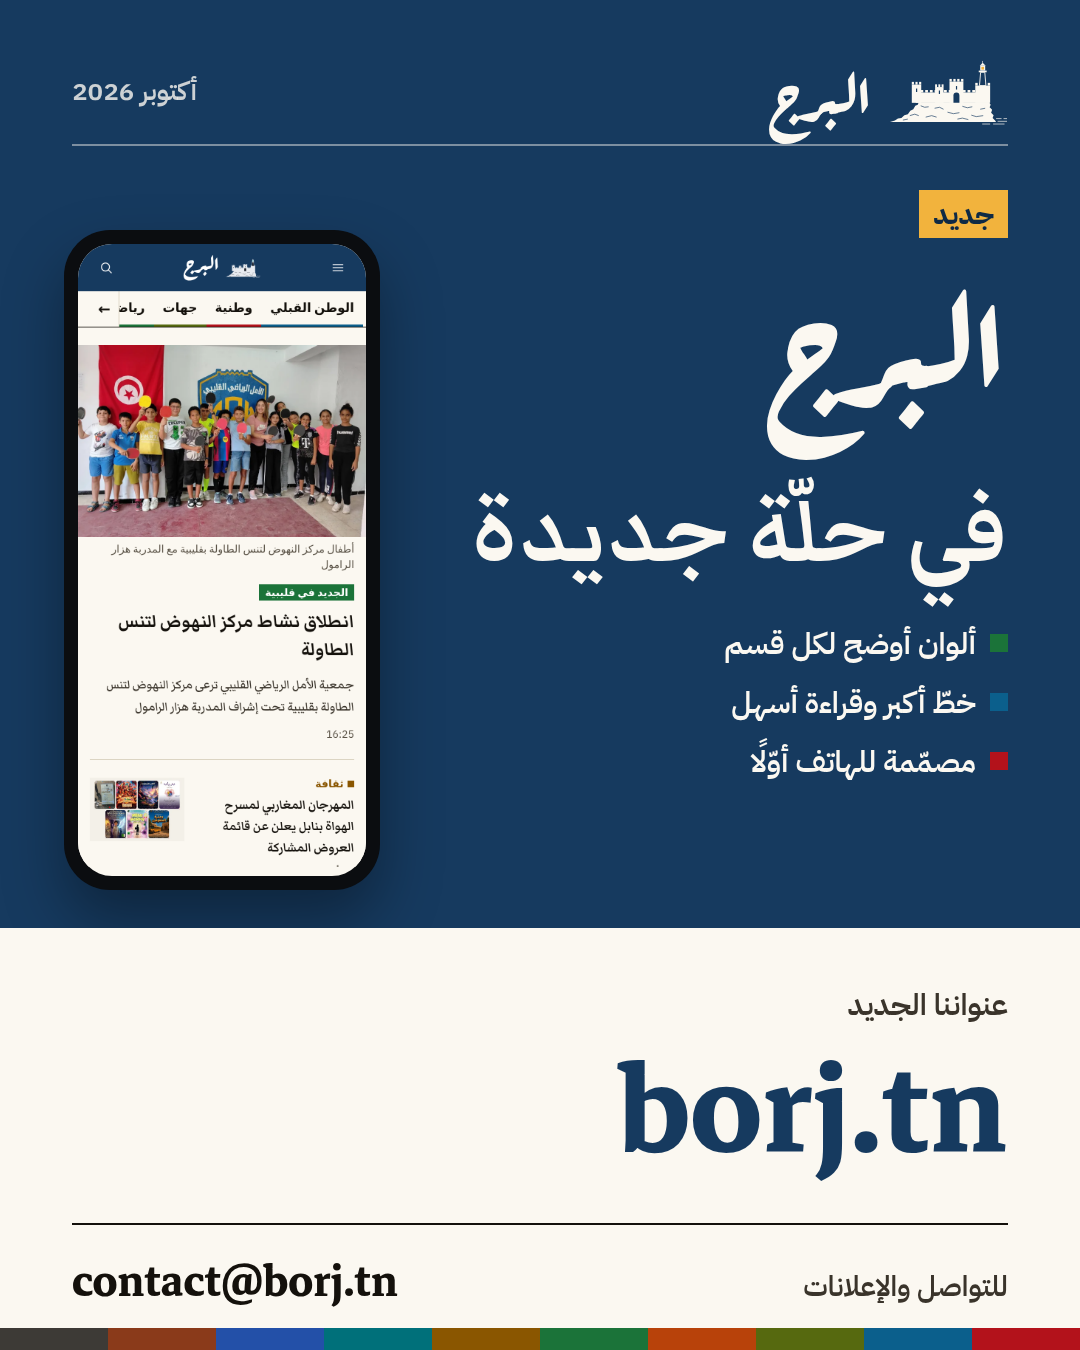
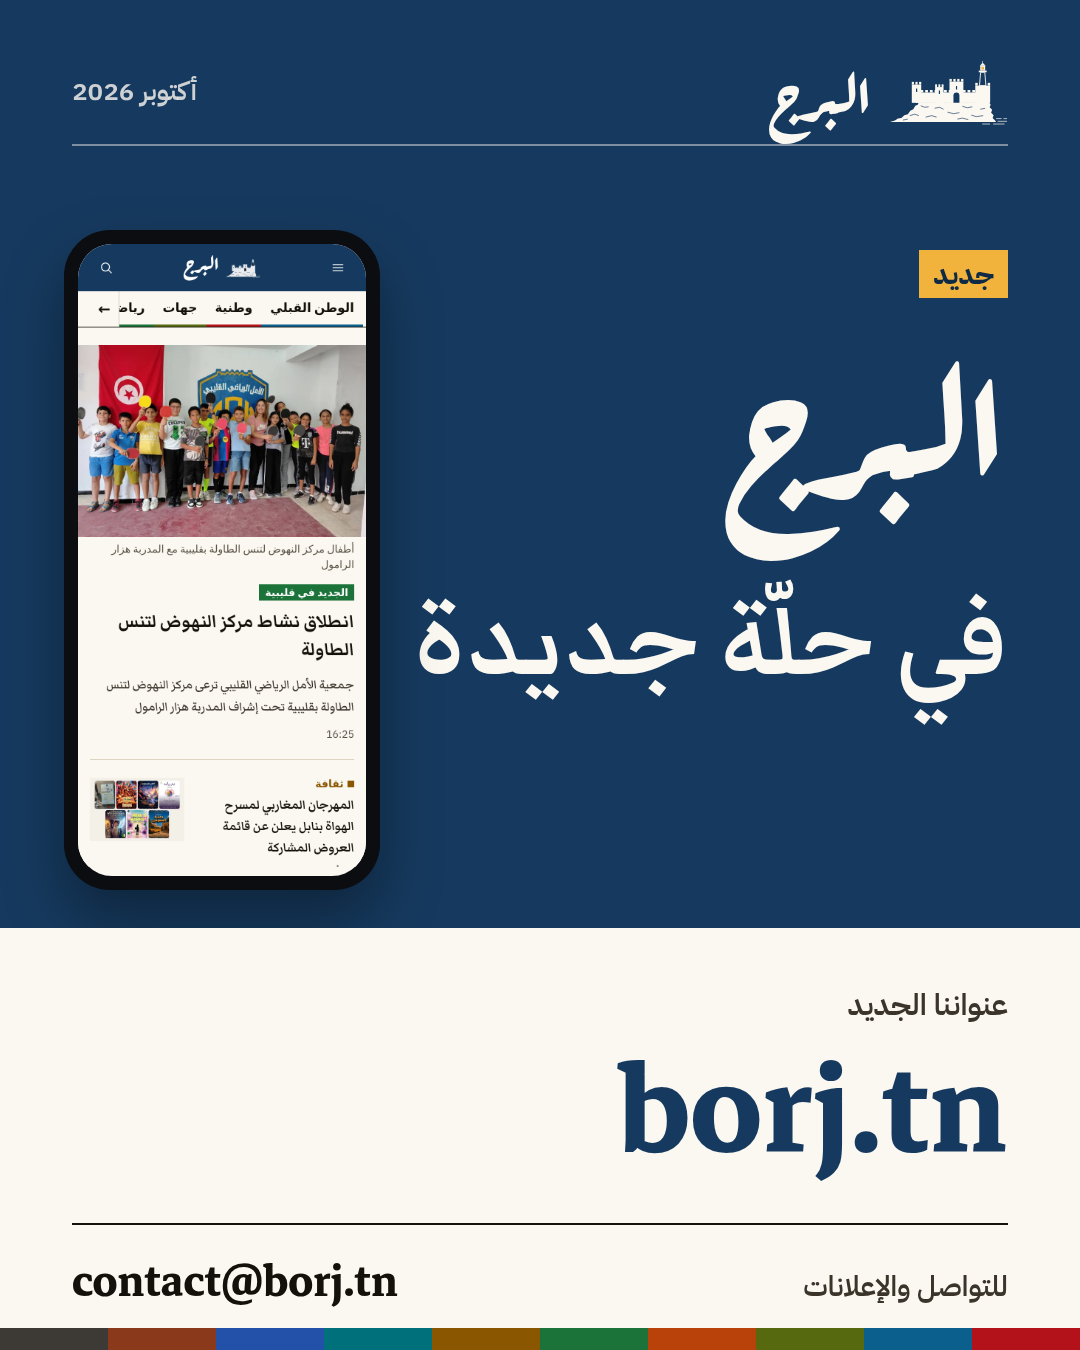
Phones: the menu sheet was white on paper inside the navy band (unreadable); now ink on paper with section colours, search, big rows and a labelled close button. Bigger tap targets (agenda months and towns, footer links); list pages get the coloured title block. Poster: only the new look, address an
Claude-Session: https://claude.ai/code/session_01H6vijaKjbs7CVtWMoX5VYi

Changed region(s): [[0.4278, 0.1244, 0.9472, 0.5911], [0.3667, 0.4356, 0.6417, 0.5289]]

diff --git a/src/components/public/MobileMenu.tsx b/src/components/public/MobileMenu.tsx
@@ -1,19 +1,25 @@
 'use client';
-import { useEffect, useRef, useState } from 'react';
+import { useEffect, useRef, useState, type CSSProperties } from 'react';
 import Link from 'next/link';
 import { CloseIcon, MenuIcon } from '@/components/shared/icons';
 
 export interface MenuSection {
   href: string;
   label: string;
+  color?: string;
   children: { href: string; label: string }[];
 }
 
-/** Full-height sheet with sections, sub-sections, pages and the language switch (mobile). */
-export function MobileMenu({ sections, pages, labels }: {
+/**
+ * Full-height sheet (phones): search, the sections with their colour (as in the nav strip) and
+ * sub-sections, then the pages. Big rows for older readers. It is rendered inside the navy
+ * masthead band, so `.mobile-sheet` resets the band's white text (globals.css).
+ */
+export function MobileMenu({ sections, pages, labels, searchAction }: {
   sections: MenuSection[];
   pages: { href: string; label: string }[];
-  labels: { menu: string; close: string; sections: string; pages: string };
+  labels: { menu: string; close: string; sections: string; pages: string; search: string; searchPlaceholder: string };
+  searchAction: string;
 }) {
   const [open, setOpen] = useState(false);
   const closeRef = useRef<HTMLButtonElement>(null);
@@ -36,26 +42,38 @@ export function MobileMenu({ sections, pages, labels }: {
   return (
     <>
       <button ref={openerRef} type="button" onClick={() => setOpen(true)} aria-expanded={open} aria-controls="mobile-menu"
-        className="inline-flex h-11 w-11 items-center justify-center" aria-label={labels.menu}>
+        className="inline-flex h-12 w-12 items-center justify-center" aria-label={labels.menu}>
         <MenuIcon />
       </button>
       {open && (
-        <div id="mobile-menu" role="dialog" aria-modal="true" aria-label={labels.menu} className="fixed inset-0 z-50 overflow-y-auto bg-paper">
-          <div className="flex items-center justify-between border-b border-rule px-4 py-2">
-            <span />
-            <button ref={closeRef} type="button" onClick={() => setOpen(false)} className="inline-flex h-11 w-11 items-center justify-center" aria-label={labels.close}>
-              <CloseIcon />
+        <div id="mobile-menu" role="dialog" aria-modal="true" aria-label={labels.menu} className="mobile-sheet fixed inset-0 z-50 overflow-y-auto overscroll-contain bg-paper text-ink">
+          <div className="sticky top-0 z-10 flex h-16 items-center justify-between bg-brand px-4 text-white">
+            <p className="font-ui text-[19px] font-bold">{labels.sections}</p>
+            <button ref={closeRef} type="button" onClick={() => setOpen(false)}
+              className="mobile-sheet-close inline-flex min-h-12 items-center gap-2 border border-white/60 px-3 font-ui text-[17px] font-bold">
+              <CloseIcon /> {labels.close}
             </button>
           </div>
-          <nav className="px-4 pb-10" aria-label={labels.sections} onClick={(e) => (e.target as HTMLElement).closest('a') && setOpen(false)}>
+          <form action={searchAction} method="get" role="search" className="flex gap-2 border-b border-rule px-4 py-4" onSubmit={() => setOpen(false)}>
+            <label htmlFor="menu-q" className="sr-only">{labels.search}</label>
+            <input id="menu-q" name="q" type="search" className="input text-[17px]" placeholder={labels.searchPlaceholder} required />
+            <button type="submit" className="btn btn-primary shrink-0">{labels.search}</button>
+          </form>
+          <nav className="px-4 pb-[calc(40px+env(safe-area-inset-bottom))]" aria-label={labels.sections} onClick={(e) => (e.target as HTMLElement).closest('a') && setOpen(false)}>
             <ul className="hairline-list">
               {sections.map((s) => (
-                <li key={s.href} className="py-3">
-                  <Link prefetch={false} href={s.href} className="font-headline text-[22px] font-bold">{s.label}</Link>
+                <li key={s.href} style={{ '--sec': s.color } as CSSProperties}>
+                  <Link prefetch={false} href={s.href} className="mobile-sheet-section flex min-h-14 items-center gap-3 py-2 font-headline text-[24px] font-bold">
+                    <span aria-hidden="true" className="h-3.5 w-3.5 shrink-0 bg-[var(--sec,var(--ink))]" />
+                    {s.label}
+                    <span aria-hidden="true" className="ms-auto font-ui text-[20px] text-ink-3">←</span>
+                  </Link>
                   {s.children.length > 0 && (
-                    <ul className="mt-1 flex flex-wrap gap-x-4 gap-y-1">
+                    <ul className="-mt-1 mb-3 flex flex-wrap gap-2 ps-[26px]">
                       {s.children.map((c) => (
-                        <li key={c.href}><Link prefetch={false} href={c.href} className="font-ui text-[15px] text-ink-2">{c.label}</Link></li>
+                        <li key={c.href}>
+                          <Link prefetch={false} href={c.href} className="inline-flex min-h-11 items-center border border-rule px-3 font-ui text-[17px] font-semibold text-ink-2">{c.label}</Link>
+                        </li>
                       ))}
                     </ul>
                   )}
@@ -64,10 +82,10 @@ export function MobileMenu({ sections, pages, labels }: {
             </ul>
             {pages.length > 0 && (
               <>
-                <p className="meta mt-8 mb-2">{labels.pages}</p>
-                <ul className="flex flex-wrap gap-x-4 gap-y-2">
+                <p className="mt-8 mb-1 font-ui text-[15px] font-bold text-ink-3">{labels.pages}</p>
+                <ul className="hairline-list">
                   {pages.map((p) => (
-                    <li key={p.href}><Link prefetch={false} href={p.href} className="font-ui text-[15px]">{p.label}</Link></li>
+                    <li key={p.href}><Link prefetch={false} href={p.href} className="flex min-h-12 items-center font-ui text-[18px] font-semibold">{p.label}</Link></li>
                   ))}
                 </ul>
               </>

diff --git a/design/facebook/announce-2026.html b/design/facebook/announce-2026.html
@@ -29,14 +29,11 @@ body { background: var(--navy); color: var(--paper); position: relative; font-fa
 .mast .date { font-weight: 600; font-size: 26px; color: rgb(251 248 241 / 0.8); }
 
 /* Headline */
-.head { position: absolute; top: 190px; right: 72px; width: 600px; }
+.head { position: absolute; top: 250px; right: 72px; width: 600px; }
 .head .kicker { display: inline-block; background: var(--lamp); color: var(--navy-deep); font-weight: 700; font-size: 28px; padding: 4px 14px 2px; }
-.head h1 { margin: 22px 0 0; font-family: 'Markazi Text'; font-weight: 700; font-size: 112px; line-height: 1.08; }
-.head h1 .word { font-family: 'Aref Ruqaa'; font-size: 150px; line-height: 1; display: block; margin-bottom: 64px; }
+.head h1 { margin: 28px 0 0; font-family: 'Markazi Text'; font-weight: 700; font-size: 124px; line-height: 1.08; }
+.head h1 .word { font-family: 'Aref Ruqaa'; font-size: 176px; line-height: 1; display: block; margin-bottom: 76px; }
 .head p { margin: 28px 0 0; font-size: 32px; line-height: 1.6; color: rgb(251 248 241 / 0.92); }
-.head ul { list-style: none; margin: 26px 0 0; padding: 0; display: grid; gap: 14px; }
-.head li { display: flex; align-items: center; gap: 14px; font-weight: 600; font-size: 30px; }
-.head li i { width: 18px; height: 18px; flex: none; }
 
 /* Phone showing the real homepage */
 .phone { position: absolute; top: 230px; left: 64px; width: 316px; height: 660px; background: #0b0d10; border-radius: 46px; padding: 14px;
@@ -73,11 +70,6 @@ body { background: var(--navy); color: var(--paper); position: relative; font-fa
   <section class="head">
     <span class="kicker">جديد</span>
     <h1><span class="word">البرج</span>في حلّة جديدة</h1>
-    <ul>
-      <li><i style="background:#1b7339"></i>ألوان أوضح لكل قسم</li>
-      <li><i style="background:#0b5f8c"></i>خطّ أكبر وقراءة أسهل</li>
-      <li><i style="background:#b3121b"></i>مصمّمة للهاتف أوّلًا</li>
-    </ul>
   </section>
 
   <div class="phone"><div class="screen"><img src="site-phone.png" alt=""></div></div>

diff --git a/src/components/public/Masthead.tsx b/src/components/public/Masthead.tsx
@@ -73,14 +73,16 @@ export async function Masthead({ locale, settings, categories, pages, latest, br
       <div className="container-page">
         <div className="flex h-16 items-center justify-between lg:hidden">
           <MobileMenu
-            labels={{ menu: t('menu'), close: t('close'), sections: t('sections'), pages: t('pages') }}
+            labels={{ menu: t('menu'), close: t('close'), sections: t('sections'), pages: t('pages'), search: t('search'), searchPlaceholder: t('searchPlaceholder') }}
+            searchAction={`/${locale}/search`}
             sections={top.map((c) => ({
               href: sectionHref(locale, c.slug),
+              color: c.color,
               label: categoryName(c, locale),
               children: childrenOf(c.id).map((s) => ({ href: sectionHref(locale, s.slug), label: categoryName(s, locale) })),
             })).concat([
-              { href: `/${locale}/agenda`, label: tg('title'), children: [] },
-              { href: `/${locale}/towns`, label: tg('towns'), children: [] },
+              { href: `/${locale}/agenda`, label: tg('title'), color: 'var(--brand)', children: [] },
+              { href: `/${locale}/towns`, label: tg('towns'), color: 'var(--brand)', children: [] },
             ])}
             pages={[
               ...pages.filter((p) => p.show_in_footer).map((p) => ({ href: pageHref(locale, p.slug, p.page_kind), label: p.title })),

diff --git a/src/styles/globals.css b/src/styles/globals.css
@@ -126,6 +126,10 @@
     color: #fff;
     padding: 6px 14px 4px;
   }
+  .section-head .page-title {
+    font-size: clamp(26px, 1vw + 22px, 34px);
+    padding: 8px 16px 6px;
+  }
   .section-head .section-title a,
   .section-head .section-title a:hover {
     color: #fff;
@@ -598,6 +602,22 @@
   }
   .masthead-band :focus-visible {
     outline-color: var(--bar-ink);
+  }
+  /* The phone menu sheet lives inside the band: back to ink on paper. */
+  .masthead-band .mobile-sheet a,
+  .masthead-band .mobile-sheet a:hover {
+    color: var(--ink);
+    text-decoration: none;
+  }
+  .masthead-band .mobile-sheet .mobile-sheet-section:hover {
+    color: var(--sec, var(--ink));
+  }
+  .masthead-band .mobile-sheet :focus-visible {
+    outline-color: var(--focus);
+  }
+  .masthead-band .mobile-sheet .mobile-sheet-close :focus-visible,
+  .masthead-band .mobile-sheet .mobile-sheet-close:focus-visible {
+    outline-color: #fff;
   }
   .masthead-utility {
     background: var(--brand-dark);

diff --git a/src/components/public/Agenda.tsx b/src/components/public/Agenda.tsx
@@ -64,7 +64,7 @@ export function EventLine({ e, locale, labels, showDate = false, calendar }: {
         {range && <span>{range}</span>}
         {time && <span dir="ltr" className="tabular-nums">{time}</span>}
         {e.place && <bdi>{e.place}</bdi>}
-        {e.town && <Link prefetch={false} href={topicHref(locale, e.town.slug)} className="hover:text-accent">{townName(e, locale)}</Link>}
+        {e.town && <Link prefetch={false} href={topicHref(locale, e.town.slug)} className="-my-3 inline-flex min-h-11 items-center underline decoration-rule underline-offset-4 hover:text-accent">{townName(e, locale)}</Link>}
         {cal === 'link' && (
           <a href={`/api/events/${e.id}`} rel="nofollow" className="-my-3 inline-flex min-h-11 items-center underline decoration-rule underline-offset-4 hover:text-accent">{labels.addToCalendar}</a>
         )}

diff --git a/src/app/[locale]/(public)/section/[slug]/[[...rest]]/page.tsx b/src/app/[locale]/(public)/section/[slug]/[[...rest]]/page.tsx
@@ -77,8 +77,9 @@ export default async function SectionPage({ params }: Params) {
     <div className="container-page mt-8">
       <header className="mb-8">
         {parent && <p className="kicker mb-1"><Link prefetch={false} href={sectionHref(locale, parent.slug)}>{categoryName(parent, locale)}</Link></p>}
-        <h1 className="headline-1 pb-2">{categoryName(cat, locale)}</h1>
-        <div className="section-rule" style={{ '--notch': cat.color } as CSSProperties} />
+        <div className="section-head" style={{ '--sec': cat.color } as CSSProperties}>
+          <h1 className="section-title page-title">{categoryName(cat, locale)}</h1>
+        </div>
         {description && <p className="dek mt-3 max-w-[var(--measure)]">{description}</p>}
         {children.length > 0 && (
           <p className="meta mt-3" aria-label={t('subsections')}>

diff --git a/src/app/[locale]/(public)/agenda/[[...month]]/page.tsx b/src/app/[locale]/(public)/agenda/[[...month]]/page.tsx
@@ -56,10 +56,10 @@ export default async function AgendaPage({ params }: Params) {
   const next = shiftMonth(month, 1);
   const nav = (
     <p className="meta flex justify-between gap-4">
-      <Link prefetch={false} href={`/${locale}/agenda/${prev}`} className="hover:text-accent">
+      <Link prefetch={false} href={`/${locale}/agenda/${prev}`} className="btn">
         <span aria-hidden="true" className="inline-block ltr:-scale-x-100">→</span> {formatMonth(prev, locale)}
       </Link>
-      <Link prefetch={false} href={`/${locale}/agenda/${next}`} className="hover:text-accent">
+      <Link prefetch={false} href={`/${locale}/agenda/${next}`} className="btn">
         {formatMonth(next, locale)} <span aria-hidden="true" className="inline-block ltr:-scale-x-100">←</span>
       </Link>
     </p>

diff --git a/src/app/[locale]/(public)/topic/[slug]/[[...rest]]/page.tsx b/src/app/[locale]/(public)/topic/[slug]/[[...rest]]/page.tsx
@@ -59,8 +59,9 @@ export default async function TopicPage({ params }: Params) {
         {image && page === 1 && <div className="w-40 shrink-0"><Img media={image} lang={locale} ratio="1/1" sizes="160px" /></div>}
         <div className="flex-1">
           <p className="kicker mb-1">{t(`kind_${tag.kind}`)}</p>
-          <h1 className="headline-1 pb-2">{tagName(tag, locale)}</h1>
-          <div className="section-rule" />
+          <div className="section-head">
+            <h1 className="section-title page-title">{tagName(tag, locale)}</h1>
+          </div>
           {description && page === 1 && <p className="dek mt-3 max-w-[var(--measure)]">{description}</p>}
           {tag.kind === 'club' && page === 1 && <p className="meta mt-2">{t('resultsSoon')}</p>}
         </div>

diff --git a/src/components/public/Footer.tsx b/src/components/public/Footer.tsx
@@ -97,8 +97,8 @@ export async function Footer({ locale, settings, categories, menu, pages }: {
               </dl>
             )}
             <p className="meta mt-4 flex flex-wrap gap-x-4 gap-y-1 text-footer-ink">
-              {socials.map(([k, url]) => <a key={k} href={url} target="_blank" rel="noopener">{SOCIAL_LABELS[k]?.[locale] ?? k}</a>)}
-              <a href={`/${locale}/rss.xml`}>{t('rss')}</a>
+              {socials.map(([k, url]) => <a key={k} href={url} target="_blank" rel="noopener" className="inline-flex min-h-11 items-center">{SOCIAL_LABELS[k]?.[locale] ?? k}</a>)}
+              <a href={`/${locale}/rss.xml`} className="inline-flex min-h-11 items-center">{t('rss')}</a>
             </p>
           </div>
         </div>

diff --git a/src/app/[locale]/(public)/format/[slug]/[[...rest]]/page.tsx b/src/app/[locale]/(public)/format/[slug]/[[...rest]]/page.tsx
@@ -48,8 +48,9 @@ export default async function FormatPage({ params }: Params) {
   if (page > totalPages) notFound();
   return (
     <div className="container-page mt-8">
-      <h1 className="headline-1 pb-2">{nameOf(f, locale)}</h1>
-      <div className="section-rule mb-8" />
+      <div className="section-head mb-8">
+        <h1 className="section-title page-title">{nameOf(f, locale)}</h1>
+      </div>
       <Listing locale={locale} items={items} page={page} totalPages={totalPages} basePath={formatHref(locale, slug)} mostRead={mostRead} empty={ts('empty')} />
     </div>
   );

diff --git a/src/components/public/StaticPageView.tsx b/src/components/public/StaticPageView.tsx
@@ -5,8 +5,9 @@ export function StaticPageView({ page, children, after }: { page: StaticPage; ch
   return (
     <div className="container-page mt-8">
       <article className="mx-auto max-w-[var(--measure)]">
-        <h1 className="headline-1 pb-2">{page.title}</h1>
-        <div className="section-rule mb-8" />
+        <div className="section-head mb-8">
+          <h1 className="section-title page-title">{page.title}</h1>
+        </div>
         <div className="prose-article" dangerouslySetInnerHTML={{ __html: page.body_html ?? '' }} />
         {children}
       </article>

diff --git a/src/app/[locale]/(public)/search/page.tsx b/src/app/[locale]/(public)/search/page.tsx
@@ -63,8 +63,9 @@ export default async function SearchPage({ params, searchParams }: Props) {
 
   return (
     <div className="container-page mt-8 max-w-[960px]">
-      <h1 className="headline-1 pb-2">{t('title')}</h1>
-      <div className="section-rule mb-6" />
+      <div className="section-head mb-6">
+        <h1 className="section-title page-title">{t('title')}</h1>
+      </div>
       <form method="get" role="search" className="space-y-4">
         <div className="flex gap-2">
           <label htmlFor="q" className="sr-only">{t('title')}</label>
